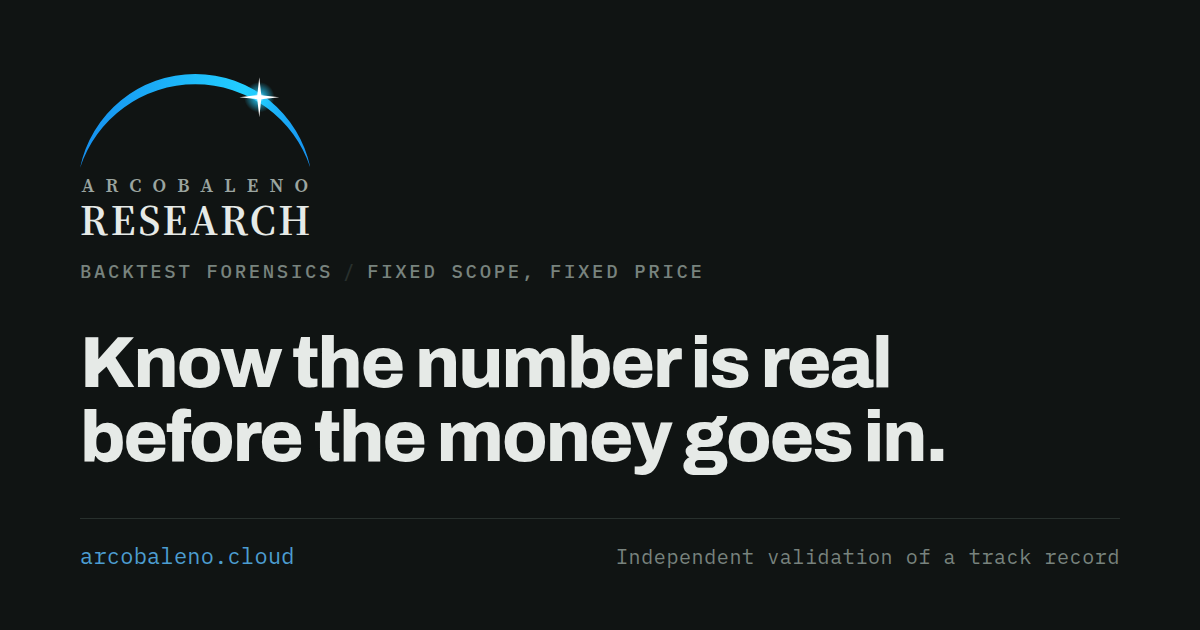
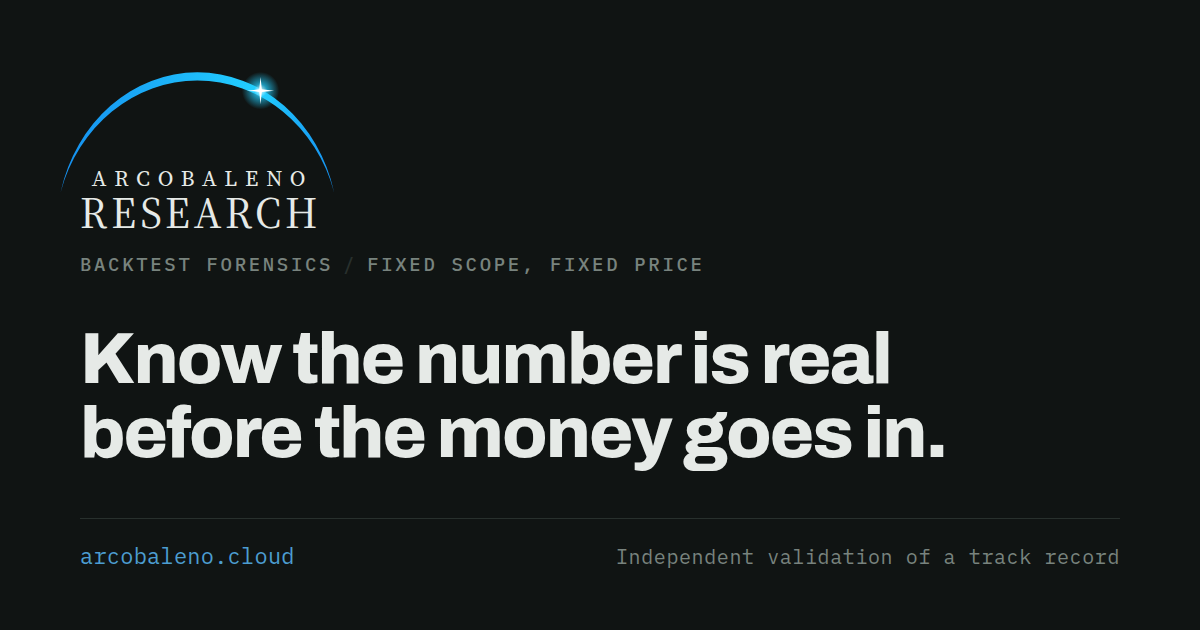
Brand: wordmark and arc matched to the new reference (centred lines, arc over ARCOBALENO); new mascot

diff --git a/index.html b/index.html
@@ -577,15 +577,14 @@
   .entity b{color:var(--muted);font-weight:600}
   @media (prefers-reduced-motion:reduce){*{animation:none!important;transition:none!important}}
 
-  /* ---------- wordmark (2026-10-02): ARCOBALENO over RESEARCH, check on the right ----------
-     Source Serif 600 capitals at equal ink width. Ratios measured on the H2 lockup
-     (funding/forensics/linkedin/wordmark/): top = .4348 x the bottom size, top tracking .5913em,
-     bottom .06em. The check's 1.372em height was measured so its ink spans both lines exactly. */
-  .wordmark{display:inline-flex;flex-direction:column;align-items:flex-start;font-family:var(--body);
-    font-weight:600;text-transform:uppercase;color:var(--ink);font-size:1.75rem;line-height:1}
-  .wordmark .wm-a{font-size:.4348em;letter-spacing:.5913em;margin-left:.075em;margin-right:-.5913em;
-    margin-bottom:.35em;color:var(--muted)}
-  .wordmark .wm-r{letter-spacing:.06em;margin-right:-.06em;line-height:.86}
+  /* ---------- wordmark (2026-10-27): ARCOBALENO over RESEARCH, centred, one colour ----------
+     Matched to the operator's "inspo" image (upload sha256 c28e086b..., in the logo inbox artifact):
+     Source Serif 500; top line .505 x the bottom size (cap-height ratio 48/95), tracked .355em so its
+     ink is ~94% of RESEARCH's; RESEARCH tracked .086em. Replaces the 2026-10-02 left-aligned version. */
+  .wordmark{display:inline-flex;flex-direction:column;align-items:center;font-family:var(--body);
+    font-weight:500;text-transform:uppercase;color:var(--ink);font-size:1.75rem;line-height:1}
+  .wordmark .wm-a{font-size:0.505em;letter-spacing:0.355em;margin-right:-0.355em;margin-bottom:0.22em}
+  .wordmark .wm-r{letter-spacing:0.086em;margin-right:-0.086em;line-height:.86}
   .brand:has(.mark-after){gap:18px}
   .brand svg.mark.mark-after{display:block;align-self:center;height:calc(1.75rem * 1.372);width:auto;flex:none}
   .brand svg.mark-after .ring,.brand svg.mark-after .chk{stroke-width:2.0}
@@ -657,13 +656,16 @@
      A single-hue arc -- the rainbow (arcobaleno) in one colour -- spanning the A to the O of
      ARCOBALENO. width:0 + min-width:100% makes it take the wordmark's width without widening it.
      The flare is white on dark, deep blue on light (a white flare vanishes on the light paper).
-     Favicon is the thick-stroke variant (build_site.py). Mascot B sits beside the home h1 only.
+     Favicon is the thick-stroke variant (build_site.py). Mascot C (2026-10-27, replaced B) sits beside the home h1 only.
+     2026-10-27: arc + flare redrawn from the inspo image (ellipse fit, 0.5% max error); the svg spans
+     RESEARCH's width, tips overflow past it (overflow:visible), and the positive margin seats
+     ARCOBALENO inside the arc with the tips reaching the top of RESEARCH.
      Decision + assets: assets/mascot-2026-10-26/README.md, DEPLOY.md 2026-10-26. */
   :root{--arc1:#1590F0;--arc2:#22CFFF;--flare:#0E6FB8}
   @media (prefers-color-scheme:dark){:root:not([data-theme="light"]){--flare:#FFFFFF}}
   :root[data-theme="dark"]{--flare:#FFFFFF}
-  .arc-lock{display:inline-grid;gap:4px}
-  .arc{display:block;height:auto;width:0;min-width:100%}
+  .arc-lock{display:inline-grid;gap:0}
+  .arc{display:block;height:auto;width:0;min-width:100%;overflow:visible;margin-bottom:5.2%}
   .brand:has(.arc-lock){margin-bottom:24px}
   .hero-row{display:grid;grid-template-columns:minmax(0,1fr) auto;gap:clamp(16px,4vw,48px);align-items:center;margin-top:20px}
   .hero-row h1{margin:0}
@@ -683,13 +685,13 @@
 
   <header class="mast">
     <div class="brand">
-      <span class="arc-lock"><svg class="arc arc-head" viewBox="312 340 694 300" aria-hidden="true" focusable="false"><defs><linearGradient id="ag-arc-head" x1="0" x2="1"><stop offset="0" stop-color="var(--arc1)"/><stop offset=".72" stop-color="var(--arc2)"/><stop offset="1" stop-color="var(--arc1)"/></linearGradient><radialGradient id="af-arc-head"><stop offset="0" stop-color="var(--flare)"/><stop offset=".35" stop-color="var(--arc2)" stop-opacity=".7"/><stop offset="1" stop-color="var(--arc2)" stop-opacity="0"/></radialGradient></defs><path fill="url(#ag-arc-head)" d="M312 635A354.2 354.2 0 0 1 1006 635A364.9 364.9 0 0 0 312 635Z"/><circle cx="852" cy="422" r="46" fill="url(#af-arc-head)"/><path fill="var(--flare)" d="M852 362L858 416L912 422L858 428L852 482L846 428L792 422L846 416Z"/></svg><span class="wordmark" role="img" aria-label="Arcobaleno Research"><span class="wm-a" aria-hidden="true">Arcobaleno</span><span class="wm-r" aria-hidden="true">Research</span></span></span>
+      <span class="arc-lock"><svg class="arc arc-head" viewBox="309 150 736 262" aria-hidden="true" focusable="false"><defs><linearGradient id="ag-arc-head" x1="0" x2="1"><stop offset="0" stop-color="var(--arc1)"/><stop offset=".72" stop-color="var(--arc2)"/><stop offset="1" stop-color="var(--arc1)"/></linearGradient><radialGradient id="af-arc-head"><stop offset="0" stop-color="var(--flare)"/><stop offset=".35" stop-color="var(--arc2)" stop-opacity=".7"/><stop offset="1" stop-color="var(--arc2)" stop-opacity="0"/></radialGradient></defs><path fill="url(#ag-arc-head)" d="M248.8 528.9A436.8 488.3 0 0 1 1097.2 528.9A442.1 482.4 0 0 0 248.8 528.9Z"/><circle cx="869" cy="214" r="58" fill="url(#af-arc-head)"/><path fill="var(--flare)" d="M869 172L873 210L911 214L873 218L869 256L865 218L827 214L865 210Z"/></svg><span class="wordmark" role="img" aria-label="Arcobaleno Research"><span class="wm-a" aria-hidden="true">Arcobaleno</span><span class="wm-r" aria-hidden="true">Research</span></span></span>
     </div>
     <div class="eyebrow">
       <span>Backtest Forensics</span><span class="dot">/</span>
       <span>Fixed scope, fixed price</span>
     </div>
-    <div class="hero-row"><h1>Know the number is real before the money goes in.</h1><img class="hero-mascot" src="/img/mascot-b.png" alt="" width="480" height="480"></div>
+    <div class="hero-row"><h1>Know the number is real before the money goes in.</h1><img class="hero-mascot" src="/img/mascot-c.png" alt="" width="480" height="480"></div>
     <p class="standfirst">
       We check trading strategies and yield claims, so the number you vote on, invest on or raise on
       is one that holds up. <strong>That is the whole job.</strong>
@@ -1453,7 +1455,7 @@
         for them.
       </p>
       <div class="contact-block">
-        <div class="contact-who"><span class="cb-row"><span class="arc-lock"><svg class="arc arc-cb" viewBox="312 340 694 300" aria-hidden="true" focusable="false"><defs><linearGradient id="ag-arc-cb" x1="0" x2="1"><stop offset="0" stop-color="var(--arc1)"/><stop offset=".72" stop-color="var(--arc2)"/><stop offset="1" stop-color="var(--arc1)"/></linearGradient><radialGradient id="af-arc-cb"><stop offset="0" stop-color="var(--flare)"/><stop offset=".35" stop-color="var(--arc2)" stop-opacity=".7"/><stop offset="1" stop-color="var(--arc2)" stop-opacity="0"/></radialGradient></defs><path fill="url(#ag-arc-cb)" d="M312 635A354.2 354.2 0 0 1 1006 635A364.9 364.9 0 0 0 312 635Z"/><circle cx="852" cy="422" r="46" fill="url(#af-arc-cb)"/><path fill="var(--flare)" d="M852 362L858 416L912 422L858 428L852 482L846 428L792 422L846 416Z"/></svg><span class="wordmark cb-wm" role="img" aria-label="Arcobaleno Research"><span class="wm-a" aria-hidden="true">Arcobaleno</span><span class="wm-r" aria-hidden="true">Research</span></span></span></span><span class="cb-sub">Backtest forensics &middot; Oslo</span></div>
+        <div class="contact-who"><span class="cb-row"><span class="arc-lock"><svg class="arc arc-cb" viewBox="309 150 736 262" aria-hidden="true" focusable="false"><defs><linearGradient id="ag-arc-cb" x1="0" x2="1"><stop offset="0" stop-color="var(--arc1)"/><stop offset=".72" stop-color="var(--arc2)"/><stop offset="1" stop-color="var(--arc1)"/></linearGradient><radialGradient id="af-arc-cb"><stop offset="0" stop-color="var(--flare)"/><stop offset=".35" stop-color="var(--arc2)" stop-opacity=".7"/><stop offset="1" stop-color="var(--arc2)" stop-opacity="0"/></radialGradient></defs><path fill="url(#ag-arc-cb)" d="M248.8 528.9A436.8 488.3 0 0 1 1097.2 528.9A442.1 482.4 0 0 0 248.8 528.9Z"/><circle cx="869" cy="214" r="58" fill="url(#af-arc-cb)"/><path fill="var(--flare)" d="M869 172L873 210L911 214L873 218L869 256L865 218L827 214L865 210Z"/></svg><span class="wordmark cb-wm" role="img" aria-label="Arcobaleno Research"><span class="wm-a" aria-hidden="true">Arcobaleno</span><span class="wm-r" aria-hidden="true">Research</span></span></span></span><span class="cb-sub">Backtest forensics &middot; Oslo</span></div>
         <a class="mailto" href="mailto:dvt@arcobaleno.cloud?subject=Backtest%20forensics%20%E2%80%94%20scoping%20call">dvt@arcobaleno.cloud <span class="arrow">→</span></a>
       </div>
       <p class="contact-note">

diff --git a/sample/index.html b/sample/index.html
@@ -497,15 +497,14 @@
   }
   @media (prefers-reduced-motion:reduce){*{animation:none!important;transition:none!important}}
 
-  /* ---------- wordmark (2026-10-02): ARCOBALENO over RESEARCH, check on the right ----------
-     Source Serif 600 capitals at equal ink width. Ratios measured on the H2 lockup
-     (funding/forensics/linkedin/wordmark/): top = .4348 x the bottom size, top tracking .5913em,
-     bottom .06em. The check's 1.372em height was measured so its ink spans both lines exactly. */
-  .wordmark{display:inline-flex;flex-direction:column;align-items:flex-start;font-family:var(--body);
-    font-weight:600;text-transform:uppercase;color:var(--ink);font-size:1.75rem;line-height:1}
-  .wordmark .wm-a{font-size:.4348em;letter-spacing:.5913em;margin-left:.075em;margin-right:-.5913em;
-    margin-bottom:.35em;color:var(--muted)}
-  .wordmark .wm-r{letter-spacing:.06em;margin-right:-.06em;line-height:.86}
+  /* ---------- wordmark (2026-10-27): ARCOBALENO over RESEARCH, centred, one colour ----------
+     Matched to the operator's "inspo" image (upload sha256 c28e086b..., in the logo inbox artifact):
+     Source Serif 500; top line .505 x the bottom size (cap-height ratio 48/95), tracked .355em so its
+     ink is ~94% of RESEARCH's; RESEARCH tracked .086em. Replaces the 2026-10-02 left-aligned version. */
+  .wordmark{display:inline-flex;flex-direction:column;align-items:center;font-family:var(--body);
+    font-weight:500;text-transform:uppercase;color:var(--ink);font-size:1.75rem;line-height:1}
+  .wordmark .wm-a{font-size:0.505em;letter-spacing:0.355em;margin-right:-0.355em;margin-bottom:0.22em}
+  .wordmark .wm-r{letter-spacing:0.086em;margin-right:-0.086em;line-height:.86}
   .brand:has(.mark-after){gap:18px}
   .brand svg.mark.mark-after{display:block;align-self:center;height:calc(1.75rem * 1.372);width:auto;flex:none}
   .brand svg.mark-after .ring,.brand svg.mark-after .chk{stroke-width:2.0}
@@ -731,8 +730,8 @@
   :root{--arc1:#1590F0;--arc2:#22CFFF;--flare:#0E6FB8}
   @media (prefers-color-scheme:dark){:root:not([data-theme="light"]){--flare:#FFFFFF}}
   :root[data-theme="dark"]{--flare:#FFFFFF}
-  .arc-lock{display:inline-grid;gap:4px}
-  .arc{display:block;height:auto;width:0;min-width:100%}
+  .arc-lock{display:inline-grid;gap:0}
+  .arc{display:block;height:auto;width:0;min-width:100%;overflow:visible;margin-bottom:5.2%}
   .brand:has(.arc-lock){margin-bottom:24px}
 </style>
 <style>
@@ -748,7 +747,7 @@
 
   <header class="mast">
     <a class="brand" href="/">
-      <span class="arc-lock"><svg class="arc arc-head" viewBox="312 340 694 300" aria-hidden="true" focusable="false"><defs><linearGradient id="ag-arc-head" x1="0" x2="1"><stop offset="0" stop-color="var(--arc1)"/><stop offset=".72" stop-color="var(--arc2)"/><stop offset="1" stop-color="var(--arc1)"/></linearGradient><radialGradient id="af-arc-head"><stop offset="0" stop-color="var(--flare)"/><stop offset=".35" stop-color="var(--arc2)" stop-opacity=".7"/><stop offset="1" stop-color="var(--arc2)" stop-opacity="0"/></radialGradient></defs><path fill="url(#ag-arc-head)" d="M312 635A354.2 354.2 0 0 1 1006 635A364.9 364.9 0 0 0 312 635Z"/><circle cx="852" cy="422" r="46" fill="url(#af-arc-head)"/><path fill="var(--flare)" d="M852 362L858 416L912 422L858 428L852 482L846 428L792 422L846 416Z"/></svg><span class="wordmark" role="img" aria-label="Arcobaleno Research"><span class="wm-a" aria-hidden="true">Arcobaleno</span><span class="wm-r" aria-hidden="true">Research</span></span></span>
+      <span class="arc-lock"><svg class="arc arc-head" viewBox="309 150 736 262" aria-hidden="true" focusable="false"><defs><linearGradient id="ag-arc-head" x1="0" x2="1"><stop offset="0" stop-color="var(--arc1)"/><stop offset=".72" stop-color="var(--arc2)"/><stop offset="1" stop-color="var(--arc1)"/></linearGradient><radialGradient id="af-arc-head"><stop offset="0" stop-color="var(--flare)"/><stop offset=".35" stop-color="var(--arc2)" stop-opacity=".7"/><stop offset="1" stop-color="var(--arc2)" stop-opacity="0"/></radialGradient></defs><path fill="url(#ag-arc-head)" d="M248.8 528.9A436.8 488.3 0 0 1 1097.2 528.9A442.1 482.4 0 0 0 248.8 528.9Z"/><circle cx="869" cy="214" r="58" fill="url(#af-arc-head)"/><path fill="var(--flare)" d="M869 172L873 210L911 214L873 218L869 256L865 218L827 214L865 210Z"/></svg><span class="wordmark" role="img" aria-label="Arcobaleno Research"><span class="wm-a" aria-hidden="true">Arcobaleno</span><span class="wm-r" aria-hidden="true">Research</span></span></span>
     </a>
     <div class="eyebrow">
       <span>Backtest Forensics</span><span class="dot">/</span>
@@ -1291,7 +1290,7 @@
         anything, we'll tell you on that call and turn the work down.</strong>
       </p>
       <div class="contact-block">
-        <div class="contact-who"><span class="cb-row"><span class="arc-lock"><svg class="arc arc-cb" viewBox="312 340 694 300" aria-hidden="true" focusable="false"><defs><linearGradient id="ag-arc-cb" x1="0" x2="1"><stop offset="0" stop-color="var(--arc1)"/><stop offset=".72" stop-color="var(--arc2)"/><stop offset="1" stop-color="var(--arc1)"/></linearGradient><radialGradient id="af-arc-cb"><stop offset="0" stop-color="var(--flare)"/><stop offset=".35" stop-color="var(--arc2)" stop-opacity=".7"/><stop offset="1" stop-color="var(--arc2)" stop-opacity="0"/></radialGradient></defs><path fill="url(#ag-arc-cb)" d="M312 635A354.2 354.2 0 0 1 1006 635A364.9 364.9 0 0 0 312 635Z"/><circle cx="852" cy="422" r="46" fill="url(#af-arc-cb)"/><path fill="var(--flare)" d="M852 362L858 416L912 422L858 428L852 482L846 428L792 422L846 416Z"/></svg><span class="wordmark cb-wm" role="img" aria-label="Arcobaleno Research"><span class="wm-a" aria-hidden="true">Arcobaleno</span><span class="wm-r" aria-hidden="true">Research</span></span></span></span><span class="cb-sub">Backtest forensics &middot; Oslo</span></div>
+        <div class="contact-who"><span class="cb-row"><span class="arc-lock"><svg class="arc arc-cb" viewBox="309 150 736 262" aria-hidden="true" focusable="false"><defs><linearGradient id="ag-arc-cb" x1="0" x2="1"><stop offset="0" stop-color="var(--arc1)"/><stop offset=".72" stop-color="var(--arc2)"/><stop offset="1" stop-color="var(--arc1)"/></linearGradient><radialGradient id="af-arc-cb"><stop offset="0" stop-color="var(--flare)"/><stop offset=".35" stop-color="var(--arc2)" stop-opacity=".7"/><stop offset="1" stop-color="var(--arc2)" stop-opacity="0"/></radialGradient></defs><path fill="url(#ag-arc-cb)" d="M248.8 528.9A436.8 488.3 0 0 1 1097.2 528.9A442.1 482.4 0 0 0 248.8 528.9Z"/><circle cx="869" cy="214" r="58" fill="url(#af-arc-cb)"/><path fill="var(--flare)" d="M869 172L873 210L911 214L873 218L869 256L865 218L827 214L865 210Z"/></svg><span class="wordmark cb-wm" role="img" aria-label="Arcobaleno Research"><span class="wm-a" aria-hidden="true">Arcobaleno</span><span class="wm-r" aria-hidden="true">Research</span></span></span></span><span class="cb-sub">Backtest forensics &middot; Oslo</span></div>
         <a class="mailto" href="mailto:dvt@arcobaleno.cloud?subject=Backtest%20forensics%20%E2%80%94%20scoping%20call">dvt@arcobaleno.cloud <span class="arrow">→</span></a>
       </div>
       <p class="contact-note">

diff --git a/method/index.html b/method/index.html
@@ -491,15 +491,14 @@
   }
   @media (prefers-reduced-motion:reduce){*{animation:none!important;transition:none!important}}
 
-  /* ---------- wordmark (2026-10-02): ARCOBALENO over RESEARCH, check on the right ----------
-     Source Serif 600 capitals at equal ink width. Ratios measured on the H2 lockup
-     (funding/forensics/linkedin/wordmark/): top = .4348 x the bottom size, top tracking .5913em,
-     bottom .06em. The check's 1.372em height was measured so its ink spans both lines exactly. */
-  .wordmark{display:inline-flex;flex-direction:column;align-items:flex-start;font-family:var(--body);
-    font-weight:600;text-transform:uppercase;color:var(--ink);font-size:1.75rem;line-height:1}
-  .wordmark .wm-a{font-size:.4348em;letter-spacing:.5913em;margin-left:.075em;margin-right:-.5913em;
-    margin-bottom:.35em;color:var(--muted)}
-  .wordmark .wm-r{letter-spacing:.06em;margin-right:-.06em;line-height:.86}
+  /* ---------- wordmark (2026-10-27): ARCOBALENO over RESEARCH, centred, one colour ----------
+     Matched to the operator's "inspo" image (upload sha256 c28e086b..., in the logo inbox artifact):
+     Source Serif 500; top line .505 x the bottom size (cap-height ratio 48/95), tracked .355em so its
+     ink is ~94% of RESEARCH's; RESEARCH tracked .086em. Replaces the 2026-10-02 left-aligned version. */
+  .wordmark{display:inline-flex;flex-direction:column;align-items:center;font-family:var(--body);
+    font-weight:500;text-transform:uppercase;color:var(--ink);font-size:1.75rem;line-height:1}
+  .wordmark .wm-a{font-size:0.505em;letter-spacing:0.355em;margin-right:-0.355em;margin-bottom:0.22em}
+  .wordmark .wm-r{letter-spacing:0.086em;margin-right:-0.086em;line-height:.86}
   .brand:has(.mark-after){gap:18px}
   .brand svg.mark.mark-after{display:block;align-self:center;height:calc(1.75rem * 1.372);width:auto;flex:none}
   .brand svg.mark-after .ring,.brand svg.mark-after .chk{stroke-width:2.0}
@@ -591,8 +590,8 @@
   :root{--arc1:#1590F0;--arc2:#22CFFF;--flare:#0E6FB8}
   @media (prefers-color-scheme:dark){:root:not([data-theme="light"]){--flare:#FFFFFF}}
   :root[data-theme="dark"]{--flare:#FFFFFF}
-  .arc-lock{display:inline-grid;gap:4px}
-  .arc{display:block;height:auto;width:0;min-width:100%}
+  .arc-lock{display:inline-grid;gap:0}
+  .arc{display:block;height:auto;width:0;min-width:100%;overflow:visible;margin-bottom:5.2%}
   .brand:has(.arc-lock){margin-bottom:24px}
 </style>
 <style>
@@ -608,7 +607,7 @@
 
   <header class="mast">
     <a class="brand" href="/">
-      <span class="arc-lock"><svg class="arc arc-head" viewBox="312 340 694 300" aria-hidden="true" focusable="false"><defs><linearGradient id="ag-arc-head" x1="0" x2="1"><stop offset="0" stop-color="var(--arc1)"/><stop offset=".72" stop-color="var(--arc2)"/><stop offset="1" stop-color="var(--arc1)"/></linearGradient><radialGradient id="af-arc-head"><stop offset="0" stop-color="var(--flare)"/><stop offset=".35" stop-color="var(--arc2)" stop-opacity=".7"/><stop offset="1" stop-color="var(--arc2)" stop-opacity="0"/></radialGradient></defs><path fill="url(#ag-arc-head)" d="M312 635A354.2 354.2 0 0 1 1006 635A364.9 364.9 0 0 0 312 635Z"/><circle cx="852" cy="422" r="46" fill="url(#af-arc-head)"/><path fill="var(--flare)" d="M852 362L858 416L912 422L858 428L852 482L846 428L792 422L846 416Z"/></svg><span class="wordmark" role="img" aria-label="Arcobaleno Research"><span class="wm-a" aria-hidden="true">Arcobaleno</span><span class="wm-r" aria-hidden="true">Research</span></span></span>
+      <span class="arc-lock"><svg class="arc arc-head" viewBox="309 150 736 262" aria-hidden="true" focusable="false"><defs><linearGradient id="ag-arc-head" x1="0" x2="1"><stop offset="0" stop-color="var(--arc1)"/><stop offset=".72" stop-color="var(--arc2)"/><stop offset="1" stop-color="var(--arc1)"/></linearGradient><radialGradient id="af-arc-head"><stop offset="0" stop-color="var(--flare)"/><stop offset=".35" stop-color="var(--arc2)" stop-opacity=".7"/><stop offset="1" stop-color="var(--arc2)" stop-opacity="0"/></radialGradient></defs><path fill="url(#ag-arc-head)" d="M248.8 528.9A436.8 488.3 0 0 1 1097.2 528.9A442.1 482.4 0 0 0 248.8 528.9Z"/><circle cx="869" cy="214" r="58" fill="url(#af-arc-head)"/><path fill="var(--flare)" d="M869 172L873 210L911 214L873 218L869 256L865 218L827 214L865 210Z"/></svg><span class="wordmark" role="img" aria-label="Arcobaleno Research"><span class="wm-a" aria-hidden="true">Arcobaleno</span><span class="wm-r" aria-hidden="true">Research</span></span></span>
     </a>
     <div class="eyebrow">
       <span>Backtest Forensics</span><span class="dot">/</span>
@@ -1170,7 +1169,7 @@
         and turn the work down</strong> — before any money changes hands.
       </p>
       <div class="contact-block">
-        <div class="contact-who"><span class="cb-row"><span class="arc-lock"><svg class="arc arc-cb" viewBox="312 340 694 300" aria-hidden="true" focusable="false"><defs><linearGradient id="ag-arc-cb" x1="0" x2="1"><stop offset="0" stop-color="var(--arc1)"/><stop offset=".72" stop-color="var(--arc2)"/><stop offset="1" stop-color="var(--arc1)"/></linearGradient><radialGradient id="af-arc-cb"><stop offset="0" stop-color="var(--flare)"/><stop offset=".35" stop-color="var(--arc2)" stop-opacity=".7"/><stop offset="1" stop-color="var(--arc2)" stop-opacity="0"/></radialGradient></defs><path fill="url(#ag-arc-cb)" d="M312 635A354.2 354.2 0 0 1 1006 635A364.9 364.9 0 0 0 312 635Z"/><circle cx="852" cy="422" r="46" fill="url(#af-arc-cb)"/><path fill="var(--flare)" d="M852 362L858 416L912 422L858 428L852 482L846 428L792 422L846 416Z"/></svg><span class="wordmark cb-wm" role="img" aria-label="Arcobaleno Research"><span class="wm-a" aria-hidden="true">Arcobaleno</span><span class="wm-r" aria-hidden="true">Research</span></span></span></span><span class="cb-sub">Backtest forensics &middot; Oslo</span></div>
+        <div class="contact-who"><span class="cb-row"><span class="arc-lock"><svg class="arc arc-cb" viewBox="309 150 736 262" aria-hidden="true" focusable="false"><defs><linearGradient id="ag-arc-cb" x1="0" x2="1"><stop offset="0" stop-color="var(--arc1)"/><stop offset=".72" stop-color="var(--arc2)"/><stop offset="1" stop-color="var(--arc1)"/></linearGradient><radialGradient id="af-arc-cb"><stop offset="0" stop-color="var(--flare)"/><stop offset=".35" stop-color="var(--arc2)" stop-opacity=".7"/><stop offset="1" stop-color="var(--arc2)" stop-opacity="0"/></radialGradient></defs><path fill="url(#ag-arc-cb)" d="M248.8 528.9A436.8 488.3 0 0 1 1097.2 528.9A442.1 482.4 0 0 0 248.8 528.9Z"/><circle cx="869" cy="214" r="58" fill="url(#af-arc-cb)"/><path fill="var(--flare)" d="M869 172L873 210L911 214L873 218L869 256L865 218L827 214L865 210Z"/></svg><span class="wordmark cb-wm" role="img" aria-label="Arcobaleno Research"><span class="wm-a" aria-hidden="true">Arcobaleno</span><span class="wm-r" aria-hidden="true">Research</span></span></span></span><span class="cb-sub">Backtest forensics &middot; Oslo</span></div>
         <a class="mailto" href="mailto:dvt@arcobaleno.cloud?subject=Backtest%20forensics%20%E2%80%94%20scoping%20call">dvt@arcobaleno.cloud <span class="arrow">→</span></a>
       </div>
       <p class="contact-note">
